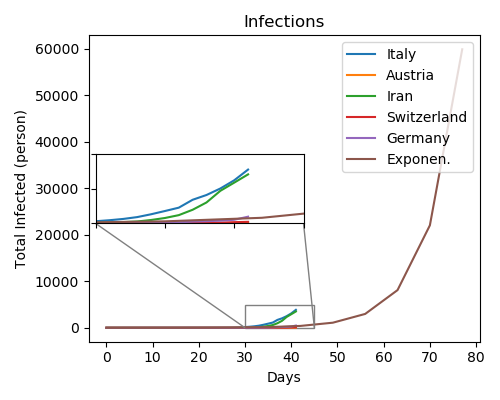
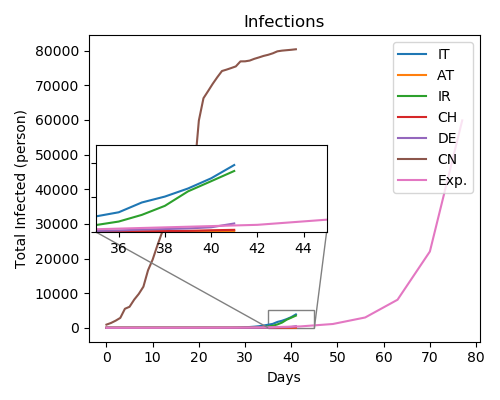
add country abbrev.

diff --git a/visualise_covid_per_country.py b/visualise_covid_per_country.py
@@ -11,13 +11,13 @@ fname='csse_covid_19_data/csse_covid_19_time_series/time_series_19-covid-Confirm
 population_normalise = False
 
 # how many weeks to estimate by exponential function
-num_weeks=12
+num_weeks = 12
 
 # syncronise the beginning of infection by the minimum infected
 syncronise = False
 # the minimum infected for synchrinisation
 min_infected = 20
-
+zoom=5
 def isNaN(num):
     return num != num
 
@@ -30,7 +30,8 @@ def synch(data, min_infected):
 
 countries = ['Italy', 'Austria', 'Iran','Switzerland','Germany','Mainland China']
 population = {'Italy':60.48e6, 'Austria':8.822e6, 'Iran':81.16e6,'Switzerland':8.57e6,'Germany':82.79e6,'Mainland China':1.386e9}
-countries = ['Italy', 'Austria', 'Iran','Switzerland','Germany']
+# countries = ['Italy', 'Austria', 'Iran','Switzerland','Germany']
+country_dict ={'Italy':'IT', 'Austria':'AT', 'Iran':'IR','Switzerland':'CH','Germany':'DE','Mainland China':'CN'}
 
 
 fig, ax = plt.subplots(figsize=[5,4])
@@ -71,7 +72,7 @@ def plot_infections(countries, fname, ax):
         if population_normalise:
             synched_infected /= population[country]
 
-        ax.plot(synched_infected, label=country)
+        ax.plot(synched_infected, label=country_dict[country])
         len_inf.append(len(synched_infected))
         synched_infected_dic[country] = synched_infected
 
@@ -85,23 +86,23 @@ def plot_infections(countries, fname, ax):
     synched_exp_data_index = [p - exp_date_index[ix] for p in exp_date_index[ix:]]
 
     # plot expo. data
-    ax.plot(synched_exp_data_index, synched_exp_data, label='Exponen.')
+    ax.plot(synched_exp_data_index, synched_exp_data, label='Exp.')
 
 
 # plot infections
 plot_infections(countries, fname, ax)
 # zoom in
-axins = zoomed_inset_axes(ax, 3, loc=6) # zoom = 6
+axins = zoomed_inset_axes(ax, zoom, loc=6)
 # plot again for the zoomed-in region
 plot_infections(countries, fname, axins)
 
 
 # sub region of the original plot
-start_date, end_date, start_infection, end_infection = 30, 45, 0, 5000
+start_date, end_date, start_infection, end_infection = 35, 45, 0, 5000
 axins.set_xlim(start_date, end_date)
 axins.set_ylim(start_infection, end_infection)
 # set ticks off for zoomed in plot
-plt.xticks(visible=False)
+# plt.xticks(visible=False)
 plt.yticks(visible=False)
 # put zoommed in plot in place
 mark_inset(ax, axins, loc1=3, loc2=4, fc="none", ec="0.5")
